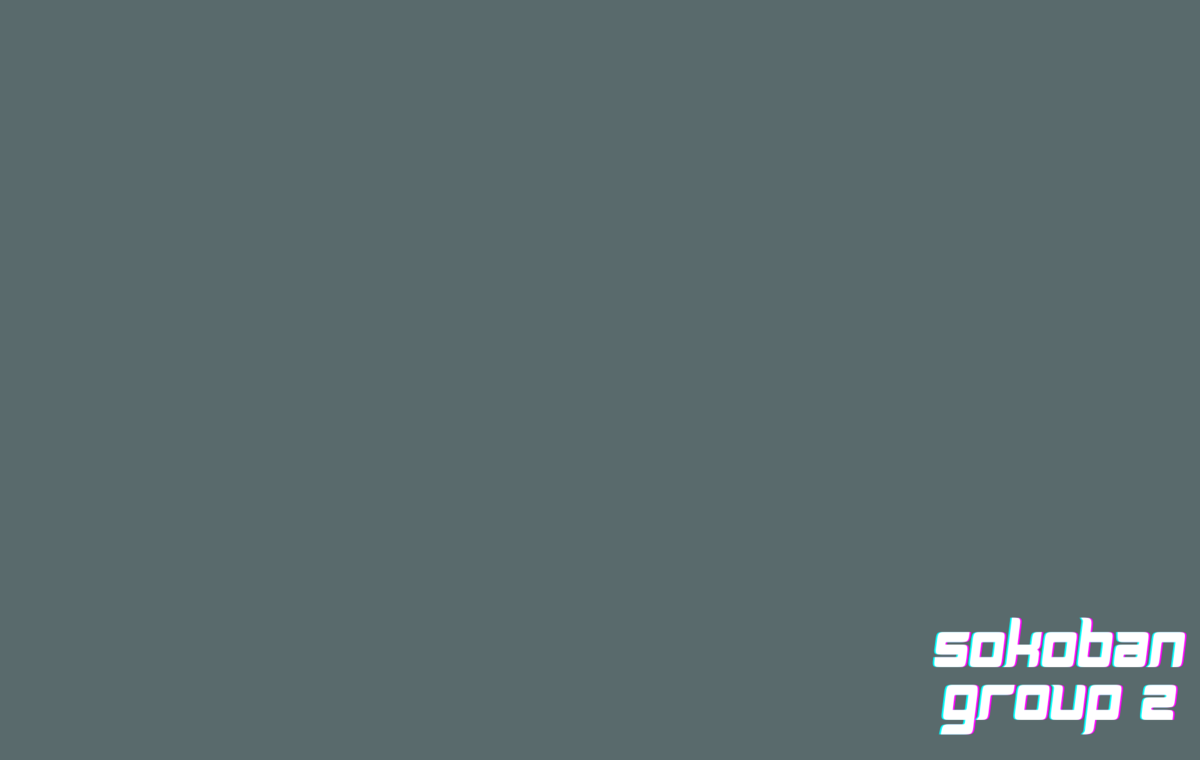
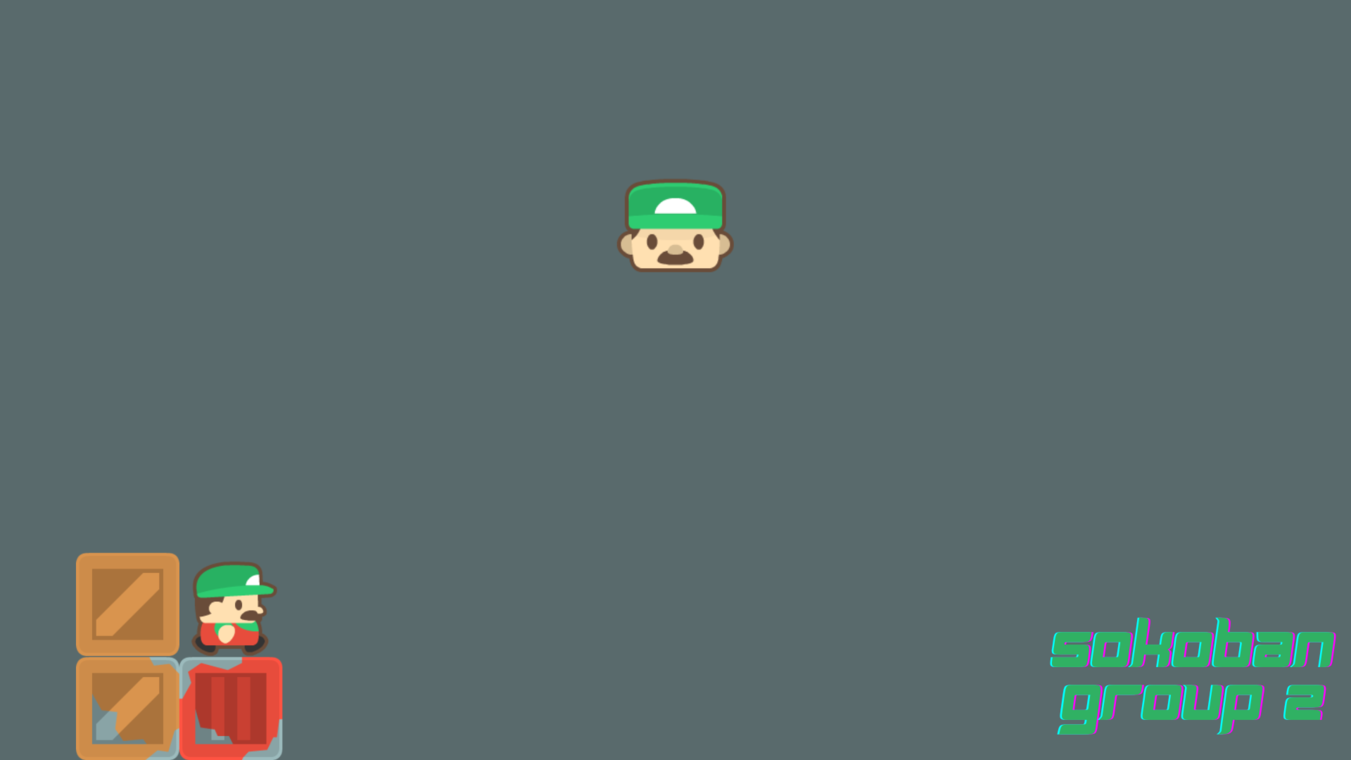
upgrade bg

Changed region(s): [[0.0308, 0.7263, 0.2158, 1.0], [0.7708, 0.8171, 0.9867, 0.9684], [0.4317, 0.2118, 0.555, 0.3632]]

diff --git a/Sources/const.py b/Sources/const.py
@@ -13,7 +13,7 @@ BOARD_LOCATION_Y = (SCREEN_HEIGHT-BOARD_SIZE)//2 + 40
 font_title_path = os.getcwd() + '\\..\\Assets\\font\\title_font.ttf'
 TITLE_BASE_X = SCREEN_WIDTH//2
 TITLE_BASE_Y = 100
-TITLE_COLOR = '#FDD250'
+TITLE_COLOR = '#30b163'
 TITLE_SIZE = 120
 
 # text
